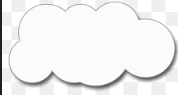
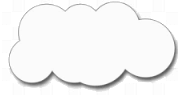
cloud going left to right smoothly

Changed region(s): [[0.0, 0.0, 0.0281, 1.0]]

diff --git a/lib/screens/BackgroundSkies.dart b/lib/screens/BackgroundSkies.dart
@@ -1,6 +1,76 @@
 import 'package:flutter/material.dart';
 import 'package:provider/provider.dart';
 import 'package:intl/intl.dart' as intl;
+import 'dart:math';
+import 'package:rxdart/rxdart.dart';
+
+// State Provider
+class SkyAppState extends ChangeNotifier {
+  final _random = new Random();
+  int next(int min, int max) => min + _random.nextInt(max - min);
+  var dayOfWeek = intl.DateFormat('EEEE').format(DateTime.now());
+  int noOfCloud = 0;
+  bool listenToClock = false;
+  var clock = Stream.periodic(const Duration(seconds: 1));
+  var clockBroadcast = BehaviorSubject();
+  double cloud_width = 50;
+  double cloud_height = 200;
+  double cloud_dist_from_left = 0;
+  double cloud_dist_from_top = 51;
+
+  double screen_max_width = 700;
+
+  double screen_max_height = 900;
+
+  bool isVisible = true;
+  void setMaxXY(double x, double y) {
+    screen_max_height = y;
+    screen_max_width = x;
+  }
+
+  void setCloudPostion(double x, double y) {
+    cloud_dist_from_top = y;
+    cloud_dist_from_left = x;
+  }
+
+  void setCloudRandomSize() {
+    cloud_width = next(50, 300) as double;
+    cloud_height = next(200, 400) as double;
+  }
+
+  void traverseLeft(double distance) {
+    cloud_dist_from_left += distance;
+  }
+
+  void toggleListeningToClock() {
+    listenToClock = !listenToClock;
+  }
+
+  //Constructor
+  SkyAppState() {
+    noOfCloud = next(1, 6);
+    clockBroadcast.listen((value) {
+      if (true) {
+        traverseLeft(5);
+        if (cloud_dist_from_left < 0) {
+          isVisible = true;
+        }
+        if (cloud_dist_from_left > screen_max_width) {
+          isVisible = false;
+        }
+        if (cloud_dist_from_left > screen_max_width + 20) {
+          cloud_dist_from_left = -50;
+        }
+        notifyListeners();
+        print("$cloud_dist_from_left");
+      }
+    });
+    clock.listen((event) => clockBroadcast.add(0));
+    // clock.listen((event) {
+    //   print("hi");
+    // });
+  }
+}
 
 class MorningSky extends StatelessWidget {
   const MorningSky({super.key});
@@ -8,52 +78,56 @@ class MorningSky extends StatelessWidget {
   @override
   Widget build(BuildContext context) {
     var dayOfWeek = intl.DateFormat('EEEE').format(DateTime.now());
-    return Scaffold(
-      backgroundColor: Colors.blue.shade200,
-      appBar: AppBar(
-        title: Center(
-            child: Text(
-          dayOfWeek,
-          style: const TextStyle(
-            fontFamily: 'MedievalSharp',
-            fontWeight: FontWeight.bold,
-            color: Colors.black,
-          ),
-        )),
-      ),
-      body: Stack(
-        children: [
-          Clouds(),
-          Center(
-            child: Text(
-              "Sample Text\nSample Text\nSample Text\nSample Text\nSample Text\n",
+    return ChangeNotifierProvider(
+      create: (context) => SkyAppState(),
+      child: Scaffold(
+        backgroundColor: Colors.blue.shade200,
+        appBar: AppBar(
+          backgroundColor: Colors.grey.shade400,
+          title: Center(
+              child: Text(
+            dayOfWeek,
+            style: const TextStyle(
+              fontFamily: 'MedievalSharp',
+              fontWeight: FontWeight.bold,
+              color: Colors.limeAccent,
             ),
-          ),
-        ],
+          )),
+        ),
+        body: Stack(
+          children: [
+            Clouds(),
+            Center(
+              child: Text(
+                "Sample Text\nSample Text\nSample Text\nSample Text\nSample Text\n",
+              ),
+            ),
+          ],
+        ),
+        floatingActionButton: Row(
+          mainAxisAlignment: MainAxisAlignment.center,
+          children: <Widget>[
+            FloatingActionButton(
+              onPressed: () => {},
+              tooltip: 'Like',
+              backgroundColor: Colors.grey.shade400,
+              foregroundColor: Colors.limeAccent,
+              child: const Icon(Icons.favorite),
+            ),
+            const SizedBox(
+              width: 70,
+            ),
+            FloatingActionButton(
+              onPressed: () => {},
+              tooltip: 'Shuffle',
+              backgroundColor: Colors.grey.shade400,
+              foregroundColor: Colors.limeAccent,
+              child: const Icon(Icons.shuffle),
+            ),
+          ],
+        ),
+        floatingActionButtonLocation: FloatingActionButtonLocation.centerFloat,
       ),
-      floatingActionButton: Row(
-        mainAxisAlignment: MainAxisAlignment.center,
-        children: <Widget>[
-          FloatingActionButton(
-            onPressed: () => {},
-            tooltip: 'Like',
-            backgroundColor: Colors.brown.shade400,
-            foregroundColor: Colors.limeAccent,
-            child: const Icon(Icons.favorite),
-          ),
-          const SizedBox(
-            width: 70,
-          ),
-          FloatingActionButton(
-            onPressed: () => {},
-            tooltip: 'Shuffle',
-            backgroundColor: Colors.brown.shade400,
-            foregroundColor: Colors.limeAccent,
-            child: const Icon(Icons.shuffle),
-          ),
-        ],
-      ),
-      floatingActionButtonLocation: FloatingActionButtonLocation.centerFloat,
     );
   }
 }
@@ -68,22 +142,21 @@ class Clouds extends StatefulWidget {
 }
 
 class _CloudsState extends State<Clouds> {
-  double cur_x = 0.0;
-  double cur_y = 51.0;
   @override
   Widget build(BuildContext context) {
-    return AnimatedPositioned(
-      duration: const Duration(seconds: 2),
-      width: 50.0,
-      height: 200.0,
-      top: 51,
-      left: cur_x,
-      child: GestureDetector(
-        onTap: () {
-          setState(() {
-            cur_x += 10.0;
-          });
-        },
+    var appState = context.watch<SkyAppState>();
+    //initialise cloud
+    appState.setMaxXY(
+        MediaQuery.of(context).size.width, MediaQuery.of(context).size.height);
+
+    return Visibility(
+      visible: appState.isVisible,
+      child: AnimatedPositioned(
+        duration: const Duration(seconds: 2),
+        width: appState.cloud_width,
+        height: appState.cloud_width,
+        top: appState.cloud_dist_from_top,
+        left: appState.cloud_dist_from_left,
         child: Container(
           decoration: BoxDecoration(
             image: DecorationImage(
